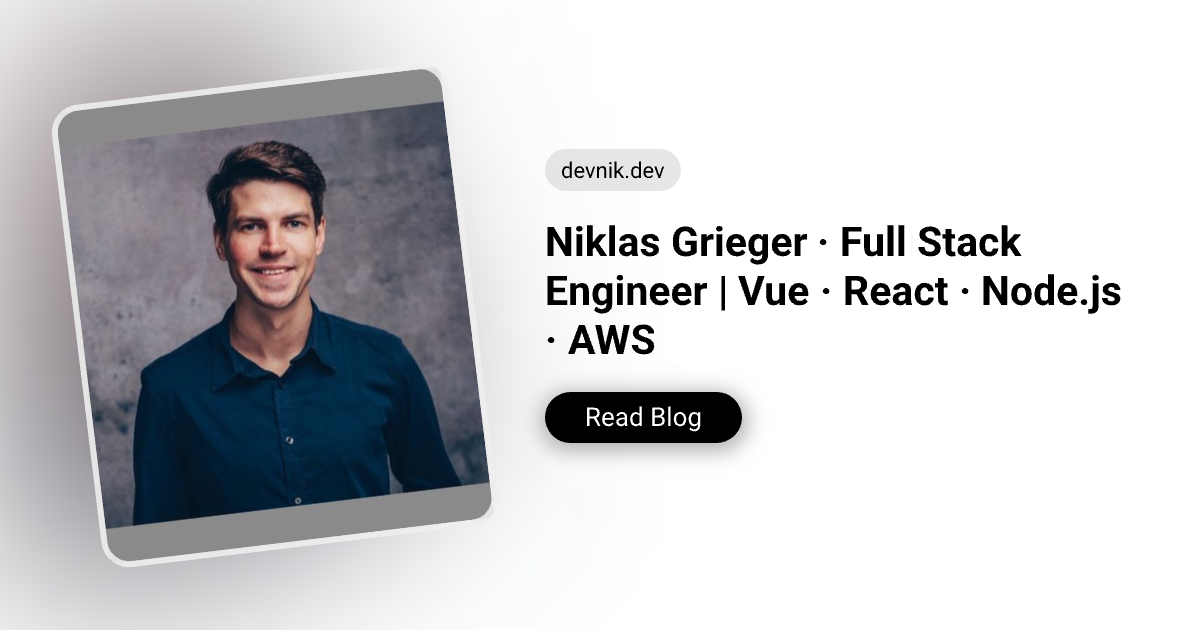
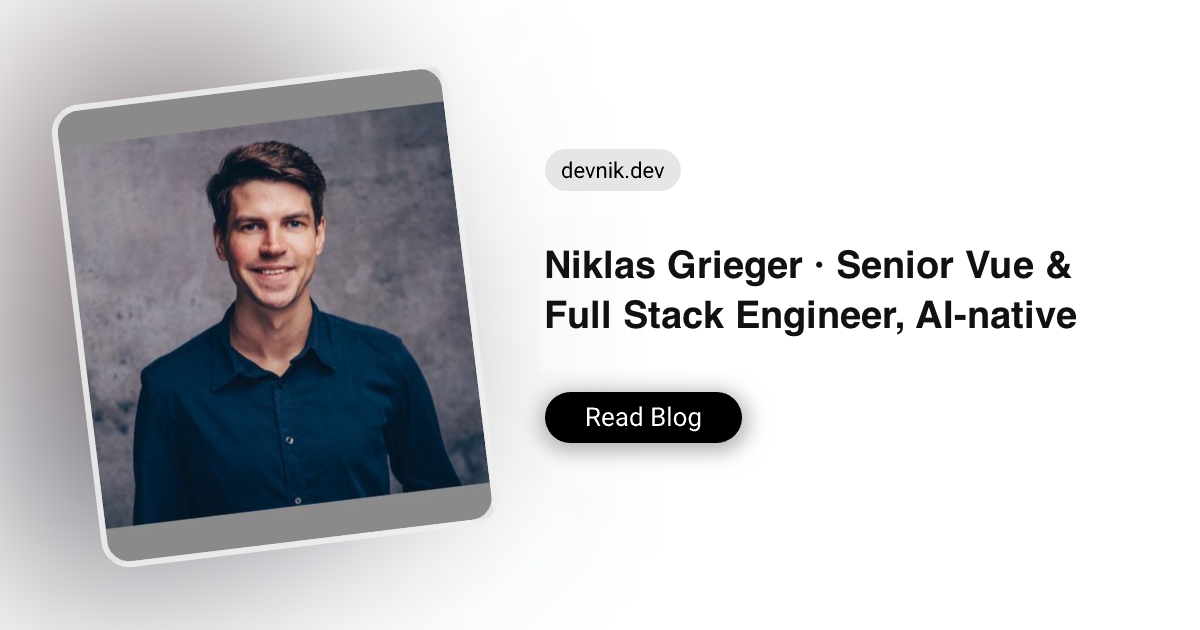
Reposition site: Vue/architecture foundation plus spec-first AI agents
- Homepage: new H1, hero, meta (incl. twitter tags), three-paragraph
  About (Heiland architecture, spec-first with NearAsk, Kinderleicht
  nightly routine), FAQ answers on how specs and agents fit together
- Featured blog post: agent-maintenance-session pinned above the
  three latest articles
- About, blog and projects pages: updated descriptions and SEO
- site description, WebSite JSON-LD and Person knowsAbout
- Hero carousel: add NearAsk, Pikuro, Arsipa, Kinderleicht, AWARE7
- Kinderleicht links the agent maintenance case study
- New OG image title

Changed region(s): [[0.4317, 0.3619, 0.9558, 0.573]]

diff --git a/app/components/landing/Blog.vue b/app/components/landing/Blog.vue
@@ -5,9 +5,15 @@ defineProps<{
   page: IndexCollectionItem
 }>()
 
-const { data: posts } = await useAsyncData('index-blogs', () =>
-  queryCollection('blog').order('date', 'DESC').limit(3).all()
-)
+const { data: posts } = await useAsyncData('index-blogs', async () => {
+  const featured = await queryCollection('blog').where('featured', '=', true).order('date', 'DESC').all()
+  const latest = await queryCollection('blog').order('date', 'DESC').limit(3 + featured.length).all()
+  const featuredPaths = new Set(featured.map(post => post.path))
+  return [
+    ...featured.map(post => ({ ...post, badge: { label: 'Featured', color: 'primary' as const, variant: 'subtle' as const } })),
+    ...latest.filter(post => !featuredPaths.has(post.path)).slice(0, 3)
+  ]
+})
 if (!posts.value) {
   throw createError({ statusCode: 404, statusMessage: 'blogs posts not found', fatal: true })
 }

diff --git a/app/app.vue b/app/app.vue
@@ -31,6 +31,7 @@ useSchemaOrg([
     name: 'Niklas Grieger',
     image: '/profile.jpg',
     jobTitle: 'Senior Full Stack Engineer',
+    knowsAbout: ['TypeScript', 'Vue.js', 'Nuxt', 'React', 'Next.js', 'Node.js', 'AWS', 'PostgreSQL', 'GraphQL', 'Claude Code', 'Spec-driven development'],
     email: 'niklas.grieger@devnik.dev',
     url: 'https://devnik.dev',
     sameAs: [
@@ -42,7 +43,7 @@ useSchemaOrg([
   }),
   defineWebSite({
     name: 'Niklas Grieger',
-    description: 'Senior Full Stack Engineer specializing in Vue, Nuxt, Node.js & AWS. Available for remote freelance.'
+    description: 'Senior Full Stack Engineer specialized in Vue/Nuxt, Node.js and AWS. Builds with AI agents, spec first. Available for remote freelance.'
   }),
   defineWebPage()
 ])

diff --git a/app/pages/index.vue b/app/pages/index.vue
@@ -14,7 +14,9 @@ useSeoMeta({
   title: page.value?.seo.title || page.value?.title,
   ogTitle: page.value?.seo.title || page.value?.title,
   description: page.value?.seo.description || page.value?.description,
-  ogDescription: page.value?.seo.description || page.value?.description
+  ogDescription: page.value?.seo.description || page.value?.description,
+  twitterTitle: page.value?.seo.title || page.value?.title,
+  twitterDescription: page.value?.seo.description || page.value?.description
 })
 </script>
 

diff --git a/nuxt.config.ts b/nuxt.config.ts
@@ -19,7 +19,7 @@ export default defineNuxtConfig({
   site: {
     url: process.env.NUXT_SITE_URL || 'https://devnik.dev',
     name: process.env.NUXT_SITE_NAME || 'Niklas Grieger',
-    description: 'Senior Full Stack Engineer specializing in Vue, Nuxt, Node.js & AWS. Available for remote freelance.',
+    description: 'Senior Full Stack Engineer specialized in Vue/Nuxt, Node.js and AWS. Builds with AI agents, spec first. Available for remote freelance.',
     defaultLocale: 'en'
   },
   runtimeConfig: {

diff --git a/app/components/landing/About.vue b/app/components/landing/About.vue
@@ -13,7 +13,7 @@ defineProps<{
     :ui="{
       container: '!p-0',
       title: 'text-left text-xl sm:text-xl lg:text-2xl font-medium',
-      description: 'text-left mt-3 text-sm sm:text-md lg:text-sm text-muted'
+      description: 'text-left mt-3 text-sm sm:text-md lg:text-sm text-muted whitespace-pre-line'
     }"
   />
 </template>

diff --git a/content.config.ts b/content.config.ts
@@ -113,6 +113,7 @@ export default defineContentConfig({
       source: 'blog/*.md',
       schema: z.object({
         minRead: z.number(),
+        featured: z.boolean().optional(),
         date: z.date(),
         image: z.string().nonempty().editor({ input: 'media' }),
         author: createAuthorSchema(),

diff --git a/content/blog/agent-maintenance-session.md b/content/blog/agent-maintenance-session.md
@@ -4,6 +4,7 @@ description: 75 commits, 141 tests, and a schema tool that's banned from the pro
 date: 2026-08-18
 image: /blog/agent-maintenance-session-hero.png
 minRead: 7
+featured: true
 author:
   name: Niklas Grieger
   avatar:
